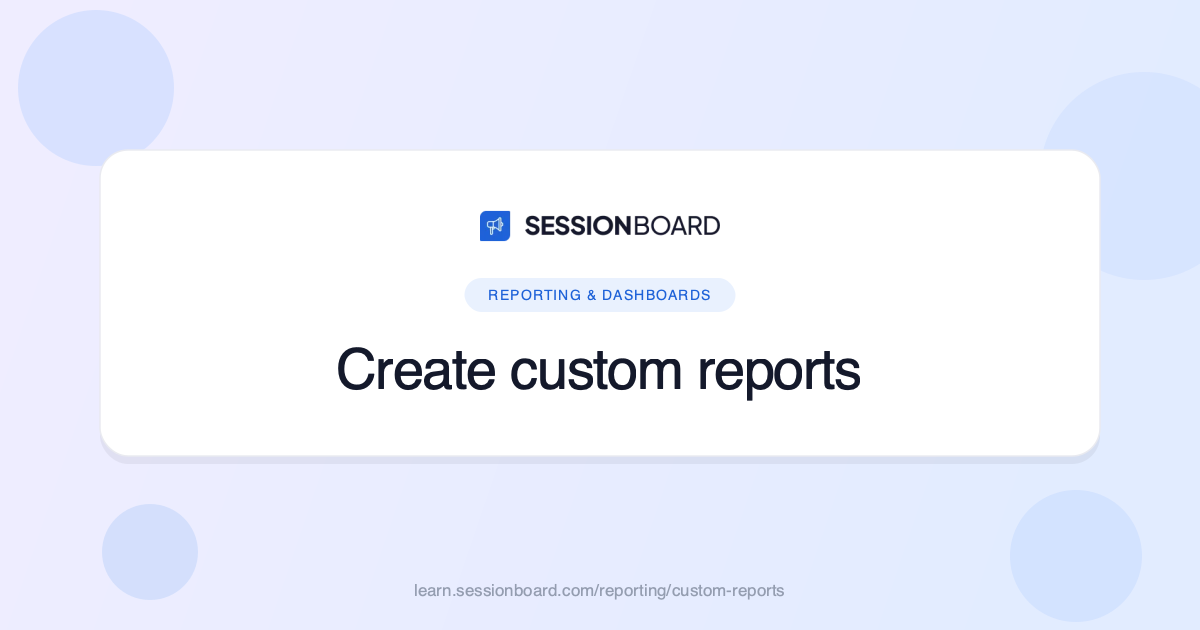
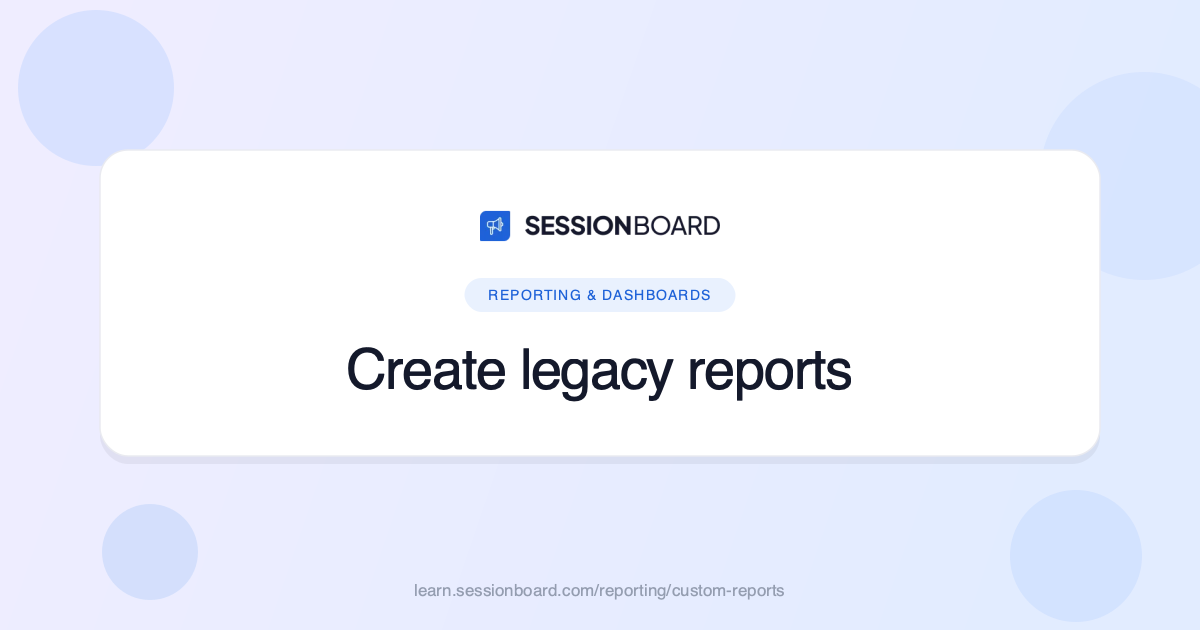
Merge the Insights article into Build a report; retitle the legacy wizard page
- reporting/insights-ai retired: its share-link, schedule, permissions,
  pre-built reports, and FAQ content now lives on
  /reporting/report-builder, which described the same product surface.
- worker.js grows an INTERNAL_REDIRECTS map for modern-slug moves;
  /reporting/insights-ai 301s to /reporting/report-builder, and the
  legacy HubSpot row now targets the merged page directly (one hop).
- 'Create custom reports' retitled 'Create legacy reports' — it covers
  the module-report wizard, and the old title collided with the
  builder's custom reports. Slug unchanged.
- Inbound links repointed (agents overview, marketing overview); the
  agents History link now goes to the History article it meant.

Changed region(s): [[0.2775, 0.5429, 0.74, 0.6333]]

diff --git a/worker.js b/worker.js
@@ -159,6 +159,17 @@ for (const [slug, target] of Object.entries(redirects)) {
   if (id) byArticleId[id] = target;
 }
 
+// Modern-slug moves: pages that lived on the current site and were merged or
+// renamed after launch. These are canonical-host paths (not legacy KB slugs),
+// so they get their own map, checked before serving assets. Add a row here any
+// time an article is retired in favour of another.
+const INTERNAL_REDIRECTS = {
+  // Merged into the Report Builder guide, 2026-09-13 — the article described
+  // the retired three-tab builder; schedules/share-links/permissions content
+  // now lives on /reporting/report-builder.
+  '/reporting/insights-ai': '/reporting/report-builder',
+};
+
 // Release notes live at /help/release-notes (restored in-site 2026-09-12 after
 // a period on Canny; the page links Canny for older history). Everything that
 // used to be under /release-notes goes there instead of rotting or 404ing —
@@ -273,6 +284,12 @@ export default {
 
     if (RELEASE_NOTES_PREFIX.test(url.pathname)) {
       return Response.redirect(`${targetOrigin}${CHANGELOG_PATH}`, 301);
+    }
+
+    // Merged/renamed modern slugs — one hop to the page that replaced them.
+    const internalTarget = INTERNAL_REDIRECTS[url.pathname.replace(/\/$/, '')];
+    if (internalTarget) {
+      return Response.redirect(`${targetOrigin}${internalTarget}${url.search}`, 301);
     }
 
     if (isLegacyHost) {
